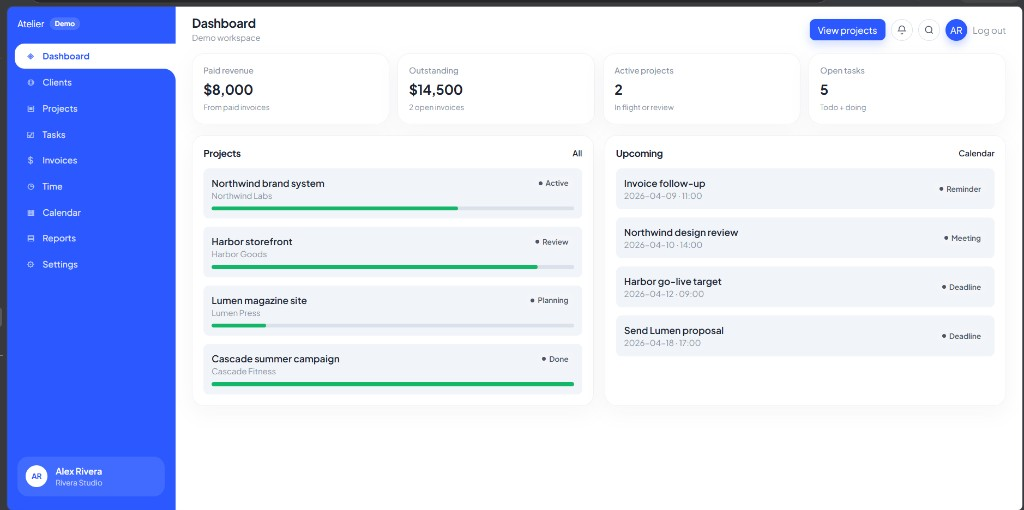
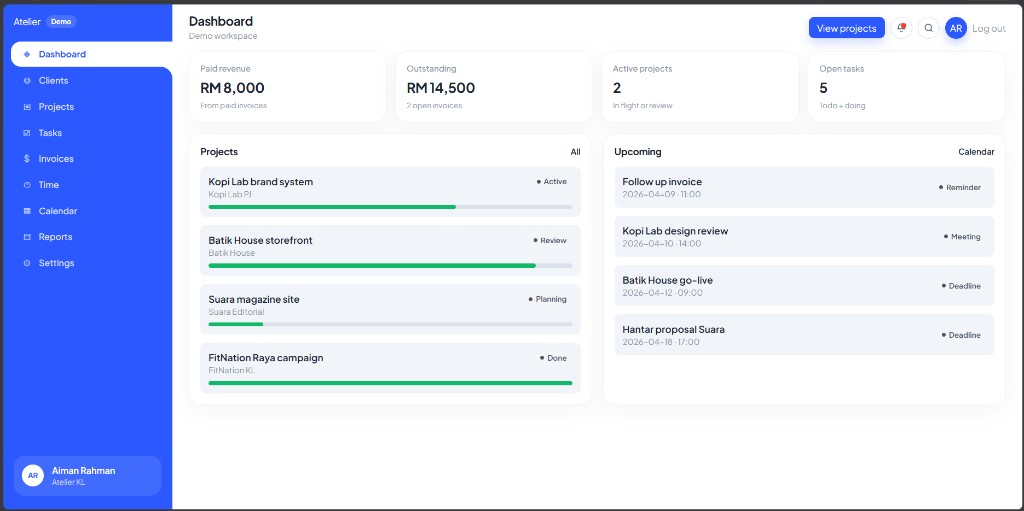
Localize demo data for Malaysia and refresh the README screenshot.
Switch seed clients, currency, and studio profile to MY, and show the current dashboard in the docs.

diff --git a/src/data/seed.ts b/src/data/seed.ts
@@ -4,85 +4,85 @@ export const seedData: AppData = {
   clients: [
     {
       id: 'c1',
-      name: 'Maya Chen',
-      company: 'Northwind Labs',
-      email: 'maya@northwind.io',
+      name: 'Nurul Aisyah',
+      company: 'Kopi Lab PJ',
+      email: 'aisyah@kopilab.my',
       status: 'active',
       value: 42000,
-      notes: 'Retainer for brand + product design.',
+      notes: 'Retainer for cafe brand and packaging.',
       createdAt: '2026-01-12',
     },
     {
       id: 'c2',
-      name: 'Jonah Reed',
-      company: 'Harbor Goods',
-      email: 'jonah@harborgoods.com',
+      name: 'Hafiz Rahman',
+      company: 'Batik House',
+      email: 'hafiz@batikhouse.my',
       status: 'active',
       value: 18500,
-      notes: 'E-commerce redesign, phase 2.',
+      notes: 'Shopee / website redesign, fasa 2.',
       createdAt: '2026-02-03',
     },
     {
       id: 'c3',
-      name: 'Sofia Alvarez',
-      company: 'Lumen Press',
-      email: 'sofia@lumenpress.co',
+      name: 'Priya Nair',
+      company: 'Suara Editorial',
+      email: 'priya@suaraeditorial.my',
       status: 'lead',
       value: 9000,
-      notes: 'Interested in editorial site rebuild.',
+      notes: 'Interested in a magazine site rebuild.',
       createdAt: '2026-03-18',
     },
     {
       id: 'c4',
-      name: 'Eli Park',
-      company: 'Cascade Fitness',
-      email: 'eli@cascadefit.com',
+      name: 'Chong Wei Jie',
+      company: 'FitNation KL',
+      email: 'weijie@fitnation.my',
       status: 'paused',
       value: 12000,
-      notes: 'Paused until Q4 campaign.',
+      notes: 'Paused until Raya campaign.',
       createdAt: '2025-11-22',
     },
   ],
   projects: [
     {
       id: 'p1',
-      name: 'Northwind brand system',
+      name: 'Kopi Lab brand system',
       clientId: 'c1',
       status: 'active',
       budget: 24000,
       dueDate: '2026-04-30',
       progress: 68,
-      description: 'Logo, type, color, and UI kit for product launch.',
+      description: 'Logo, type, colour, and UI kit for the Petaling Jaya flagship.',
     },
     {
       id: 'p2',
-      name: 'Harbor storefront',
+      name: 'Batik House storefront',
       clientId: 'c2',
       status: 'review',
       budget: 15000,
       dueDate: '2026-04-12',
       progress: 90,
-      description: 'Shopify theme + custom PDP templates.',
+      description: 'Online store + product page templates for batik collections.',
     },
     {
       id: 'p3',
-      name: 'Lumen magazine site',
+      name: 'Suara magazine site',
       clientId: 'c3',
       status: 'planning',
       budget: 9000,
       dueDate: '2026-05-20',
       progress: 15,
-      description: 'Proposal and sitemap for editorial CMS.',
+      description: 'Proposal and sitemap for an editorial CMS.',
     },
     {
       id: 'p4',
-      name: 'Cascade summer campaign',
+      name: 'FitNation Raya campaign',
       clientId: 'c4',
       status: 'done',
       budget: 8000,
       dueDate: '2026-02-28',
       progress: 100,
-      description: 'Landing pages and email creatives.',
+      description: 'Landing pages and email creatives for the KL gym.',
     },
   ],
   tasks: [
@@ -109,42 +109,42 @@ export const seedData: AppData = {
   messages: [
     {
       id: 'm1',
-      from: 'Maya Chen',
-      subject: 'Love the latest marks',
-      preview: 'Option B feels closest — can we push the weight a touch…',
-      body: 'Option B feels closest — can we push the weight a touch lighter on the wordmark and keep the symbol as-is? Also free Thursday afternoon for a quick sync.',
+      from: 'Nurul Aisyah',
+      subject: 'Suka markah yang terbaru',
+      preview: 'Option B paling close — boleh ke kita ringan sikit weight…',
+      body: 'Option B paling close — boleh ke kita ringan sikit weight pada wordmark dan keep the symbol as-is? Free Thursday afternoon for a quick sync at the PJ outlet.',
       read: false,
       at: '2026-04-07T14:22:00',
     },
     {
       id: 'm2',
-      from: 'Jonah Reed',
+      from: 'Hafiz Rahman',
       subject: 'Storefront feedback',
-      preview: 'Team reviewed the PDP — mostly green lights…',
-      body: 'Team reviewed the PDP — mostly green lights. Two notes on mobile gallery and size guide placement. Sending screenshots shortly.',
+      preview: 'Team dah review product page — mostly okay…',
+      body: 'Team dah review product page — mostly okay. Dua notes: gallery on mobile and size guide placement. I send screenshots shortly.',
       read: false,
       at: '2026-04-06T09:10:00',
     },
     {
       id: 'm3',
-      from: 'Sofia Alvarez',
+      from: 'Priya Nair',
       subject: 'Ready for proposal?',
-      preview: 'Board meets next week — any chance we can see a draft…',
-      body: 'Board meets next week — any chance we can see a draft proposal by Friday? Happy to jump on a call if helpful.',
+      preview: 'Board meeting next week — can we see a draft…',
+      body: 'Board meeting next week in KL — any chance we can see a draft proposal by Friday? Happy to jump on a call if helpful.',
       read: true,
       at: '2026-04-05T16:40:00',
     },
   ],
   files: [
-    { id: 'f1', name: 'Northwind_Brand_v3.fig', type: 'Figma', size: '24 MB', projectId: 'p1', updatedAt: '2026-04-07' },
-    { id: 'f2', name: 'Harbor_PDP_mockups.pdf', type: 'PDF', size: '8.2 MB', projectId: 'p2', updatedAt: '2026-04-05' },
-    { id: 'f3', name: 'Lumen_sitemap.xlsx', type: 'Sheet', size: '210 KB', projectId: 'p3', updatedAt: '2026-04-04' },
-    { id: 'f4', name: 'Cascade_assets.zip', type: 'Archive', size: '112 MB', projectId: 'p4', updatedAt: '2026-02-28' },
+    { id: 'f1', name: 'KopiLab_Brand_v3.fig', type: 'Figma', size: '24 MB', projectId: 'p1', updatedAt: '2026-04-07' },
+    { id: 'f2', name: 'BatikHouse_PDP_mockups.pdf', type: 'PDF', size: '8.2 MB', projectId: 'p2', updatedAt: '2026-04-05' },
+    { id: 'f3', name: 'Suara_sitemap.xlsx', type: 'Sheet', size: '210 KB', projectId: 'p3', updatedAt: '2026-04-04' },
+    { id: 'f4', name: 'FitNation_raya_assets.zip', type: 'Archive', size: '112 MB', projectId: 'p4', updatedAt: '2026-02-28' },
   ],
   events: [
-    { id: 'e1', title: 'Northwind design review', date: '2026-04-10', time: '14:00', type: 'meeting', projectId: 'p1' },
-    { id: 'e2', title: 'Harbor go-live target', date: '2026-04-12', time: '09:00', type: 'deadline', projectId: 'p2' },
-    { id: 'e3', title: 'Send Lumen proposal', date: '2026-04-18', time: '17:00', type: 'deadline', projectId: 'p3' },
-    { id: 'e4', title: 'Invoice follow-up', date: '2026-04-09', time: '11:00', type: 'reminder' },
+    { id: 'e1', title: 'Kopi Lab design review', date: '2026-04-10', time: '14:00', type: 'meeting', projectId: 'p1' },
+    { id: 'e2', title: 'Batik House go-live', date: '2026-04-12', time: '09:00', type: 'deadline', projectId: 'p2' },
+    { id: 'e3', title: 'Hantar proposal Suara', date: '2026-04-18', time: '17:00', type: 'deadline', projectId: 'p3' },
+    { id: 'e4', title: 'Follow up invoice', date: '2026-04-09', time: '11:00', type: 'reminder' },
   ],
 }

diff --git a/src/context/AuthContext.tsx b/src/context/AuthContext.tsx
@@ -33,6 +33,18 @@ const emptyProfile = {
   bio: '',
 }
 
+export const demoUser: User = {
+  id: 'demo',
+  name: 'Aiman Rahman',
+  email: 'demo@atelier.my',
+  company: 'Atelier KL',
+  role: 'Creative director',
+  phone: '+60 12-345 6789',
+  location: 'Kuala Lumpur, Malaysia',
+  website: 'https://atelier.my',
+  bio: 'Studio reka bentuk di KL. Brand system, UI produk, dan campaign untuk pasukan kecil.',
+}
+
 function normalizeUser(raw: Partial<User> & { id: string; name: string; email: string; company: string }): User {
   return {
     id: raw.id,
@@ -70,6 +82,7 @@ function loadSession(): { user: User | null; isDemo: boolean } {
     if (!raw) return { user: null, isDemo: false }
     const parsed = JSON.parse(raw) as { user: (User & { plan?: string }) | null; isDemo: boolean }
     if (!parsed.user) return { user: null, isDemo: parsed.isDemo }
+    if (parsed.isDemo) return { user: demoUser, isDemo: true }
     const { plan: _plan, ...rest } = parsed.user
     return { user: normalizeUser(rest), isDemo: parsed.isDemo }
   } catch {
@@ -137,20 +150,7 @@ export function AuthProvider({ children }: { children: ReactNode }) {
         }
       },
       enterDemo: () => {
-        persist(
-          {
-            id: 'demo',
-            name: 'Alex Rivera',
-            email: 'demo@atelier.app',
-            company: 'Rivera Studio',
-            role: 'Creative director',
-            phone: '+1 (415) 555-0142',
-            location: 'Oakland, CA',
-            website: 'https://riverastudio.example',
-            bio: 'Independent design studio focused on brand systems and product UI for early-stage teams.',
-          },
-          true,
-        )
+        persist(demoUser, true)
       },
       logout: () => persist(null, false),
     }),

diff --git a/src/pages/Landing.tsx b/src/pages/Landing.tsx
@@ -107,7 +107,7 @@ export default function Landing() {
             <div className="grid gap-3 p-4 sm:grid-cols-3">
               <div className="rounded-2xl bg-white/10 p-3 sm:col-span-2">
                 <p className="text-xs text-white/60">Revenue this month</p>
-                <p className="mt-1 font-display text-2xl font-bold text-white">$16,500</p>
+                <p className="mt-1 font-display text-2xl font-bold text-white">RM 16,500</p>
                 <svg viewBox="0 0 240 60" className="mt-3 w-full" aria-hidden>
                   <path
                     d="M0 45 C40 40, 60 20, 90 28 S140 50, 170 22 S210 10, 240 18"
@@ -130,7 +130,7 @@ export default function Landing() {
               </div>
               <div className="rounded-2xl bg-white/10 p-3 sm:col-span-2">
                 <p className="text-xs text-white/60">Next up</p>
-                <p className="mt-1 text-sm font-semibold text-white">Northwind design review · Thu 2:00</p>
+                <p className="mt-1 text-sm font-semibold text-white">Kopi Lab design review · Thu 2:00</p>
               </div>
             </div>
           </div>

diff --git a/src/pages/Settings.tsx b/src/pages/Settings.tsx
@@ -9,7 +9,7 @@ export default function Settings() {
   const { resetDemo } = useData()
   const navigate = useNavigate()
   const [notify, setNotify] = useState({ email: true, overdue: true, weekly: false })
-  const [currency, setCurrency] = useState('USD')
+  const [currency, setCurrency] = useState('MYR')
   const [weekStart, setWeekStart] = useState('monday')
 
   return (
@@ -22,10 +22,10 @@ export default function Settings() {
           <div>
             <label className="mb-1 block text-sm font-medium">Default currency</label>
             <select className="field" value={currency} onChange={(e) => setCurrency(e.target.value)}>
+              <option value="MYR">MYR (RM)</option>
+              <option value="SGD">SGD</option>
               <option value="USD">USD</option>
               <option value="EUR">EUR</option>
-              <option value="GBP">GBP</option>
-              <option value="SGD">SGD</option>
             </select>
           </div>
           <div>

diff --git a/src/types.ts b/src/types.ts
@@ -106,15 +106,15 @@ export function uid(prefix = 'id') {
 }
 
 export function formatMoney(n: number) {
-  return new Intl.NumberFormat('en-US', {
+  return new Intl.NumberFormat('en-MY', {
     style: 'currency',
-    currency: 'USD',
+    currency: 'MYR',
     maximumFractionDigits: 0,
   }).format(n)
 }
 
 export function formatDate(iso: string) {
-  return new Date(iso).toLocaleDateString('en-US', {
+  return new Date(iso).toLocaleDateString('en-MY', {
     month: 'short',
     day: 'numeric',
     year: 'numeric',

diff --git a/src/pages/CalendarPage.tsx b/src/pages/CalendarPage.tsx
@@ -29,7 +29,7 @@ export default function CalendarPage() {
   }, [year, month])
 
   const dayEvents = data.events.filter((e) => e.date === selected)
-  const monthLabel = new Date(year, month, 1).toLocaleString('en-US', { month: 'long', year: 'numeric' })
+  const monthLabel = new Date(year, month, 1).toLocaleString('en-MY', { month: 'long', year: 'numeric' })
 
   const shiftMonth = (delta: number) => {
     const d = new Date(year, month + delta, 1)

diff --git a/src/context/DataContext.tsx b/src/context/DataContext.tsx
@@ -48,7 +48,7 @@ type DataContextValue = {
 const DataContext = createContext<DataContextValue | null>(null)
 
 function storageKey(userId: string | undefined, isDemo: boolean) {
-  if (isDemo) return 'atelier_data_demo'
+  if (isDemo) return 'atelier_data_demo_my'
   if (userId) return `atelier_data_${userId}`
   return null
 }

diff --git a/README.md b/README.md
@@ -4,9 +4,9 @@
 
 Repository: [Mierul01/studio-management-system](https://github.com/Mierul01/studio-management-system)
 
-![Atelier dashboard — cobalt sidebar, metric cards, projects, and upcoming events](docs/dashboard.png)
+![Atelier dashboard — Malaysian demo workspace with RM revenue, Kopi Lab, Batik House, and FitNation Raya](docs/dashboard.png)
 
-The screenshot above is the live **Dashboard**: a full-page SaaS layout with a cobalt sidebar, compact header, revenue cards, project progress, and upcoming meetings or deadlines.
+The screenshot above is the live **Dashboard**: a full-page SaaS layout with a cobalt sidebar, compact header, and a Malaysian demo studio (Atelier KL). Money is in **RM**, and sample clients include Kopi Lab PJ, Batik House, Suara Editorial, and FitNation KL.
 
 ---
 
